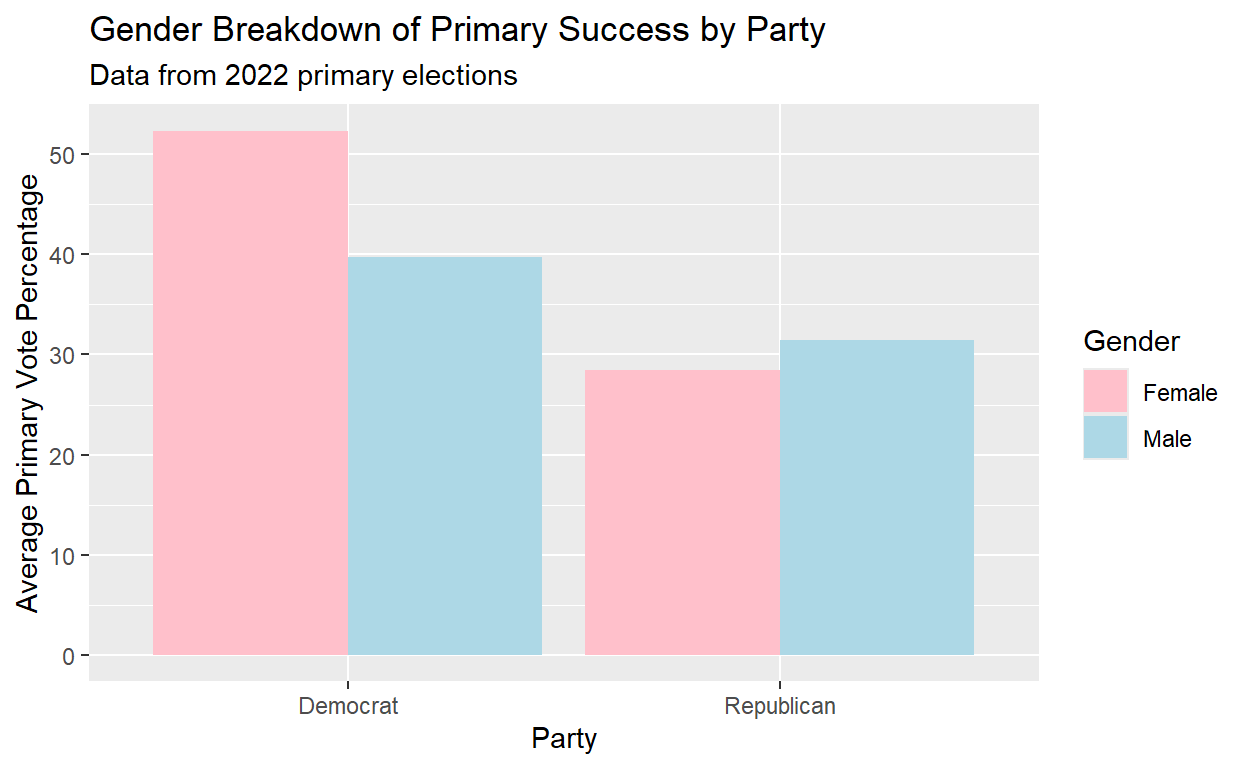
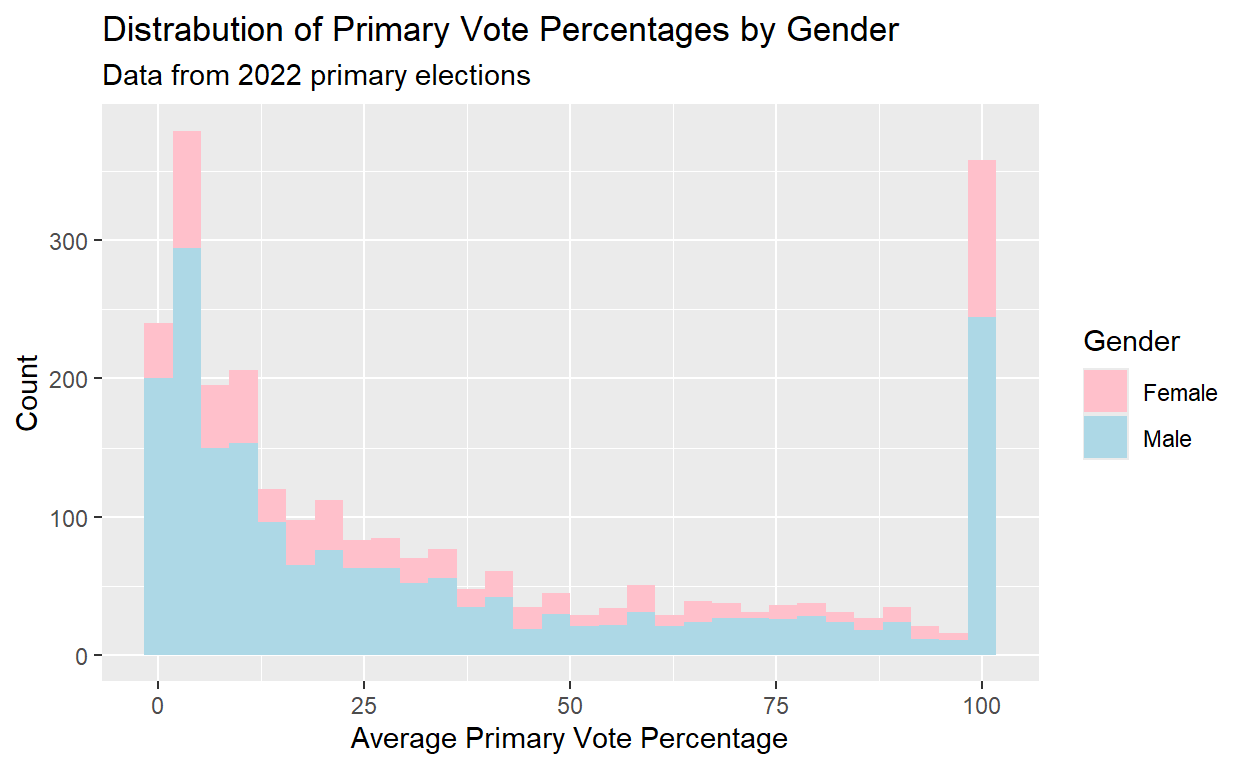
outcome of interest

diff --git a/index.html b/index.html
@@ -89,34 +89,34 @@ code span.wa { color: #5e5e5e; font-style: italic; } /* Warning */
 
 
   <!--radix_placeholder_meta_tags-->
-  <title>PS270 Final Project</title>
+  <title>When Gender Matters</title>
 
-  <meta property="description" itemprop="description" content="My final project"/>
+  <meta property="description" itemprop="description" content="Party Differences in Candidate Success in Primary Elections"/>
 
 
   <meta name="article:author" content="Audrey Loritz"/>
 
   <!--  https://developers.facebook.com/docs/sharing/webmasters#markup -->
-  <meta property="og:title" content="PS270 Final Project"/>
+  <meta property="og:title" content="When Gender Matters"/>
   <meta property="og:type" content="article"/>
-  <meta property="og:description" content="My final project"/>
+  <meta property="og:description" content="Party Differences in Candidate Success in Primary Elections"/>
   <meta property="og:locale" content="en_US"/>
 
   <!--  https://dev.twitter.com/cards/types/summary -->
   <meta property="twitter:card" content="summary"/>
-  <meta property="twitter:title" content="PS270 Final Project"/>
-  <meta property="twitter:description" content="My final project"/>
+  <meta property="twitter:title" content="When Gender Matters"/>
+  <meta property="twitter:description" content="Party Differences in Candidate Success in Primary Elections"/>
 
   <!--/radix_placeholder_meta_tags-->
   <!--radix_placeholder_rmarkdown_metadata-->
 
   <script type="text/json" id="radix-rmarkdown-metadata">
-  {"type":"list","attributes":{"names":{"type":"character","attributes":{},"value":["title","author","description","output"]}},"value":[{"type":"character","attributes":{},"value":["PS270 Final Project"]},{"type":"list","attributes":{},"value":[{"type":"list","attributes":{"names":{"type":"character","attributes":{},"value":["name"]}},"value":[{"type":"character","attributes":{},"value":["Audrey Loritz"]}]}]},{"type":"character","attributes":{},"value":["My final project"]},{"type":"list","attributes":{"names":{"type":"character","attributes":{},"value":["distill::distill_article"]}},"value":[{"type":"list","attributes":{"names":{"type":"character","attributes":{},"value":["self_contained"]}},"value":[{"type":"logical","attributes":{},"value":[false]}]}]}]}
+  {"type":"list","attributes":{"names":{"type":"character","attributes":{},"value":["title","author","description","output"]}},"value":[{"type":"character","attributes":{},"value":["When Gender Matters"]},{"type":"list","attributes":{},"value":[{"type":"list","attributes":{"names":{"type":"character","attributes":{},"value":["name"]}},"value":[{"type":"character","attributes":{},"value":["Audrey Loritz"]}]}]},{"type":"character","attributes":{},"value":["Party Differences in Candidate Success in Primary Elections"]},{"type":"list","attributes":{"names":{"type":"character","attributes":{},"value":["distill::distill_article"]}},"value":[{"type":"list","attributes":{"names":{"type":"character","attributes":{},"value":["self_contained"]}},"value":[{"type":"logical","attributes":{},"value":[false]}]}]}]}
   </script>
   <!--/radix_placeholder_rmarkdown_metadata-->
   
   <script type="text/json" id="radix-resource-manifest">
-  {"type":"character","attributes":{},"value":["data/dem_candidates.csv","data/README.md","data/rep_candidates.csv","index_files/anchor-4.2.2/anchor.min.js","index_files/bowser-1.9.3/bowser.min.js","index_files/distill-2.2.21/template.v2.js","index_files/figure-html5/unnamed-chunk-3-1.png","index_files/header-attrs-2.17/header-attrs.js","index_files/header-attrs-2.30/header-attrs.js","index_files/jquery-3.6.0/jquery-3.6.0.js","index_files/jquery-3.6.0/jquery-3.6.0.min.js","index_files/jquery-3.6.0/jquery-3.6.0.min.map","index_files/popper-2.6.0/popper.min.js","index_files/tippy-6.2.7/tippy-bundle.umd.min.js","index_files/tippy-6.2.7/tippy-light-border.css","index_files/tippy-6.2.7/tippy.css","index_files/tippy-6.2.7/tippy.umd.min.js","index_files/webcomponents-2.0.0/webcomponents.js"]}
+  {"type":"character","attributes":{},"value":["data/dem_candidates.csv","data/README.md","data/rep_candidates.csv","index_files/anchor-4.2.2/anchor.min.js","index_files/bowser-1.9.3/bowser.min.js","index_files/distill-2.2.21/template.v2.js","index_files/figure-html5/unnamed-chunk-3-1.png","index_files/figure-html5/unnamed-chunk-4-1.png","index_files/header-attrs-2.17/header-attrs.js","index_files/header-attrs-2.30/header-attrs.js","index_files/jquery-3.6.0/jquery-3.6.0.js","index_files/jquery-3.6.0/jquery-3.6.0.min.js","index_files/jquery-3.6.0/jquery-3.6.0.min.map","index_files/popper-2.6.0/popper.min.js","index_files/tippy-6.2.7/tippy-bundle.umd.min.js","index_files/tippy-6.2.7/tippy-light-border.css","index_files/tippy-6.2.7/tippy.css","index_files/tippy-6.2.7/tippy.umd.min.js","index_files/webcomponents-2.0.0/webcomponents.js"]}
   </script>
   <!--radix_placeholder_navigation_in_header-->
   <!--/radix_placeholder_navigation_in_header-->
@@ -1519,7 +1519,7 @@ code span.wa { color: #5e5e5e; font-style: italic; } /* Warning */
 <!--radix_placeholder_front_matter-->
 
 <script id="distill-front-matter" type="text/json">
-{"title":"PS270 Final Project","description":"My final project","authors":[{"author":"Audrey Loritz","authorURL":"#","affiliation":"&nbsp;","affiliationURL":"#","orcidID":""}]}
+{"title":"When Gender Matters","description":"Party Differences in Candidate Success in Primary Elections","authors":[{"author":"Audrey Loritz","authorURL":"#","affiliation":"&nbsp;","affiliationURL":"#","orcidID":""}]}
 </script>
 
 <!--/radix_placeholder_front_matter-->
@@ -1529,11 +1529,11 @@ code span.wa { color: #5e5e5e; font-style: italic; } /* Warning */
 <!--/radix_placeholder_site_before_body-->
 
 <div class="d-title">
-<h1>PS270 Final Project</h1>
+<h1>When Gender Matters</h1>
 
 <!--radix_placeholder_categories-->
 <!--/radix_placeholder_categories-->
-<p>My final project</p>
+<p>Party Differences in Candidate Success in Primary Elections</p>
 </div>
 
 <div class="d-byline">
@@ -1548,9 +1548,12 @@ code span.wa { color: #5e5e5e; font-style: italic; } /* Warning */
 <p><strong>How does gender impact candidate success in primary elections?</strong></p>
 <p>If a female candidate runs in a democratic primary, then they will have more electoral success than republican female candidates. This assumptions stems from the theory that democratic female candidates will have greater success because democratic voters are historically more supportive of diverse candidates.The explanatory variables are party, determined by which primary the candidate is running in, and gender, determined by campaign materials and interviews with candidates. The outcome variable is primary election success. This is measured in the data set by “Primary %”, the percentage of votes a candidate got in their primary election. My hypothesis will be supported if data shows more results of “Won” for female candidates in democratic than republican primaries.</p>
 <h2 id="data">Data</h2>
-<h2 id="results">Results</h2>
 <div class="layout-chunk" data-layout="l-body">
 <p><img src="index_files/figure-html5/unnamed-chunk-3-1.png" alt="" width="624" /></p>
+</div>
+<h2 id="results">Results</h2>
+<div class="layout-chunk" data-layout="l-body">
+<p><img src="index_files/figure-html5/unnamed-chunk-4-1.png" alt="" width="624" /></p>
 </div>
 <p>This graph demonstrates primary success based on gender within the two main political parties. The average Democratic vote percentage for female candidates is just over 50%, whereas female Republicans only got an average of under 30% in their elections. Female candidates in Democratic primaries saw greater success than those in Republican primaries.</p>
 <div class="layout-chunk" data-layout="l-body">
@@ -1638,8 +1641,10 @@ code span.wa { color: #5e5e5e; font-style: italic; } /* Warning */
 <pre class="sourceCode r"><code class="sourceCode r"><span><span class='kw'><a href='https://rdrr.io/r/base/library.html'>library</a></span><span class='op'>(</span><span class='va'><a href='https://tidyverse.tidyverse.org'>tidyverse</a></span><span class='op'>)</span></span>
 <span><span class='kw'><a href='https://rdrr.io/r/base/library.html'>library</a></span><span class='op'>(</span><span class='va'><a href='https://broom.tidymodels.org/'>broom</a></span><span class='op'>)</span></span>
 <span><span class='kw'><a href='https://rdrr.io/r/base/library.html'>library</a></span><span class='op'>(</span><span class='va'><a href='https://github.com/tidymodels/infer'>infer</a></span><span class='op'>)</span></span>
+<span></span>
 <span><span class='va'>dem_candidates</span> <span class='op'>&lt;-</span> <span class='fu'><a href='https://readr.tidyverse.org/reference/read_delim.html'>read_csv</a></span><span class='op'>(</span><span class='st'>"data/dem_candidates.csv"</span><span class='op'>)</span></span>
 <span><span class='va'>rep_candidates</span> <span class='op'>&lt;-</span> <span class='fu'><a href='https://readr.tidyverse.org/reference/read_delim.html'>read_csv</a></span><span class='op'>(</span><span class='st'>"data/rep_candidates.csv"</span><span class='op'>)</span></span>
+<span></span>
 <span><span class='va'>elections</span> <span class='op'>&lt;-</span> <span class='fu'><a href='https://dplyr.tidyverse.org/reference/bind_rows.html'>bind_rows</a></span><span class='op'>(</span><span class='va'>dem_candidates</span>, <span class='va'>rep_candidates</span>,</span>
 <span>                       .id <span class='op'>=</span> <span class='st'>"Party"</span><span class='op'>)</span></span>
 <span></span>
@@ -1650,6 +1655,16 @@ code span.wa { color: #5e5e5e; font-style: italic; } /* Warning */
 <span><span class='va'>elections</span> <span class='op'>&lt;-</span> <span class='va'>elections</span> <span class='op'>|&gt;</span></span>
 <span>  <span class='fu'><a href='https://dplyr.tidyverse.org/reference/mutate.html'>mutate</a></span><span class='op'>(</span>`Primary %` <span class='op'>=</span> <span class='fu'><a href='https://readr.tidyverse.org/reference/parse_number.html'>parse_number</a></span><span class='op'>(</span><span class='va'>`Primary %`</span><span class='op'>)</span><span class='op'>)</span> <span class='op'>|&gt;</span></span>
 <span>  <span class='fu'><a href='https://dplyr.tidyverse.org/reference/filter.html'>filter</a></span><span class='op'>(</span><span class='va'>Gender</span> <span class='op'>!=</span> <span class='st'>"Nonbinary"</span><span class='op'>)</span></span>
+<span></span>
+<span><span class='va'>interest</span> <span class='op'>&lt;-</span> <span class='fu'><a href='https://ggplot2.tidyverse.org/reference/ggplot.html'>ggplot</a></span><span class='op'>(</span><span class='va'>elections</span>, <span class='fu'><a href='https://ggplot2.tidyverse.org/reference/aes.html'>aes</a></span><span class='op'>(</span>x <span class='op'>=</span> <span class='va'>`Primary %`</span>, fill <span class='op'>=</span> <span class='va'>Gender</span><span class='op'>)</span><span class='op'>)</span> <span class='op'>+</span></span>
+<span>  <span class='fu'><a href='https://ggplot2.tidyverse.org/reference/geom_histogram.html'>geom_histogram</a></span><span class='op'>(</span><span class='op'>)</span> <span class='op'>+</span></span>
+<span>  <span class='fu'><a href='https://ggplot2.tidyverse.org/reference/scale_manual.html'>scale_fill_manual</a></span><span class='op'>(</span>values <span class='op'>=</span> <span class='fu'><a href='https://rdrr.io/r/base/c.html'>c</a></span><span class='op'>(</span><span class='st'>"Female"</span> <span class='op'>=</span> <span class='st'>"pink"</span>, <span class='st'>"Male"</span> <span class='op'>=</span> <span class='st'>"lightblue"</span><span class='op'>)</span><span class='op'>)</span> <span class='op'>+</span></span>
+<span>  <span class='fu'><a href='https://ggplot2.tidyverse.org/reference/labs.html'>labs</a></span><span class='op'>(</span>x <span class='op'>=</span> <span class='st'>"Average Primary Vote Percentage"</span>, y <span class='op'>=</span> <span class='st'>"Count"</span>,</span>
+<span>       title <span class='op'>=</span> <span class='st'>"Distrabution of Primary Vote Percentages by Gender"</span>,</span>
+<span>       subtitle <span class='op'>=</span> <span class='st'>"Data from 2022 primary elections"</span><span class='op'>)</span></span>
+<span></span>
+<span><span class='va'>interest</span></span>
+<span></span>
 <span><span class='va'>party_gender_success</span> <span class='op'>&lt;-</span> <span class='va'>elections</span> <span class='op'>|&gt;</span> <span class='fu'><a href='https://dplyr.tidyverse.org/reference/group_by.html'>group_by</a></span><span class='op'>(</span><span class='va'>Party</span>, <span class='va'>Gender</span><span class='op'>)</span> <span class='op'>|&gt;</span></span>
 <span>           <span class='fu'><a href='https://dplyr.tidyverse.org/reference/summarise.html'>summarise</a></span><span class='op'>(</span>avg_primary <span class='op'>=</span> <span class='fu'><a href='https://rdrr.io/r/base/mean.html'>mean</a></span><span class='op'>(</span><span class='va'>`Primary %`</span>, na.rm <span class='op'>=</span> <span class='cn'>TRUE</span><span class='op'>)</span><span class='op'>)</span> <span class='op'>|&gt;</span></span>
 <span>  <span class='fu'><a href='https://ggplot2.tidyverse.org/reference/ggplot.html'>ggplot</a></span><span class='op'>(</span><span class='fu'><a href='https://ggplot2.tidyverse.org/reference/aes.html'>aes</a></span><span class='op'>(</span>x <span class='op'>=</span> <span class='va'>Party</span>, y <span class='op'>=</span> <span class='va'>avg_primary</span>, fill <span class='op'>=</span> <span class='va'>Gender</span><span class='op'>)</span><span class='op'>)</span> <span class='op'>+</span> </span>
@@ -1660,6 +1675,7 @@ code span.wa { color: #5e5e5e; font-style: italic; } /* Warning */
 <span>       subtitle <span class='op'>=</span> <span class='st'>"Data from 2022 primary elections"</span><span class='op'>)</span></span>
 <span></span>
 <span><span class='va'>party_gender_success</span></span>
+<span></span>
 <span><span class='va'>fit</span> <span class='op'>&lt;-</span> <span class='fu'><a href='https://rdrr.io/r/stats/lm.html'>lm</a></span><span class='op'>(</span><span class='va'>`Primary %`</span> <span class='op'>~</span> </span>
 <span>            <span class='fu'><a href='https://rdrr.io/r/stats/relevel.html'>relevel</a></span><span class='op'>(</span><span class='fu'><a href='https://rdrr.io/r/base/factor.html'>as.factor</a></span><span class='op'>(</span><span class='va'>Gender</span><span class='op'>)</span>, ref <span class='op'>=</span> <span class='st'>"Male"</span><span class='op'>)</span> <span class='op'>*</span> </span>
 <span>            <span class='fu'><a href='https://rdrr.io/r/stats/relevel.html'>relevel</a></span><span class='op'>(</span><span class='fu'><a href='https://rdrr.io/r/base/factor.html'>as.factor</a></span><span class='op'>(</span><span class='va'>Party</span><span class='op'>)</span>, ref <span class='op'>=</span> <span class='st'>"Republican"</span><span class='op'>)</span>,</span>
@@ -1672,6 +1688,7 @@ code span.wa { color: #5e5e5e; font-style: italic; } /* Warning */
 <span><span class='fu'>knitr</span><span class='fu'>::</span><span class='fu'><a href='https://rdrr.io/pkg/knitr/man/kable.html'>kable</a></span><span class='op'>(</span><span class='va'>fit_table</span>, digits <span class='op'>=</span> <span class='fl'>2</span>,</span>
 <span>             col.names <span class='op'>=</span> <span class='fu'><a href='https://rdrr.io/r/base/c.html'>c</a></span><span class='op'>(</span><span class='st'>"Intercept(Male Republicans)"</span>, <span class='st'>"Female Republicans"</span>,</span>
 <span>                           <span class='st'>"Male Democats"</span>, <span class='st'>"Female Democrats"</span><span class='op'>)</span><span class='op'>)</span></span>
+<span></span>
 <span><span class='va'>std_er</span> <span class='op'>&lt;-</span> <span class='fu'><a href='https://generics.r-lib.org/reference/tidy.html'>tidy</a></span><span class='op'>(</span><span class='va'>fit</span><span class='op'>)</span> <span class='op'>|&gt;</span></span>
 <span>  <span class='fu'><a href='https://dplyr.tidyverse.org/reference/select.html'>select</a></span><span class='op'>(</span><span class='va'>term</span>, <span class='va'>std.error</span><span class='op'>)</span> <span class='op'>|&gt;</span></span>
 <span>  <span class='fu'><a href='https://tidyr.tidyverse.org/reference/pivot_wider.html'>pivot_wider</a></span><span class='op'>(</span>names_from <span class='op'>=</span> <span class='va'>term</span>, values_from <span class='op'>=</span> <span class='va'>std.error</span><span class='op'>)</span></span>
@@ -1679,6 +1696,7 @@ code span.wa { color: #5e5e5e; font-style: italic; } /* Warning */
 <span><span class='fu'>knitr</span><span class='fu'>::</span><span class='fu'><a href='https://rdrr.io/pkg/knitr/man/kable.html'>kable</a></span><span class='op'>(</span><span class='va'>std_er</span>, digits <span class='op'>=</span> <span class='fl'>2</span>,</span>
 <span>             col.names <span class='op'>=</span> <span class='fu'><a href='https://rdrr.io/r/base/c.html'>c</a></span><span class='op'>(</span><span class='st'>"Intercept(Male Republicans)"</span>, <span class='st'>"Female Republicans"</span>,</span>
 <span>                           <span class='st'>"Male Democats"</span>, <span class='st'>"Female Democrats"</span><span class='op'>)</span><span class='op'>)</span></span>
+<span></span>
 <span><span class='va'>p_values</span> <span class='op'>&lt;-</span> <span class='fu'><a href='https://generics.r-lib.org/reference/tidy.html'>tidy</a></span><span class='op'>(</span><span class='va'>fit</span><span class='op'>)</span> <span class='op'>|&gt;</span></span>
 <span>  <span class='fu'><a href='https://dplyr.tidyverse.org/reference/select.html'>select</a></span><span class='op'>(</span><span class='va'>term</span>, <span class='va'>p.value</span><span class='op'>)</span> <span class='op'>|&gt;</span></span>
 <span>  <span class='fu'><a href='https://tidyr.tidyverse.org/reference/pivot_wider.html'>pivot_wider</a></span><span class='op'>(</span>names_from <span class='op'>=</span> <span class='va'>term</span>, values_from <span class='op'>=</span> <span class='va'>p.value</span><span class='op'>)</span></span>
